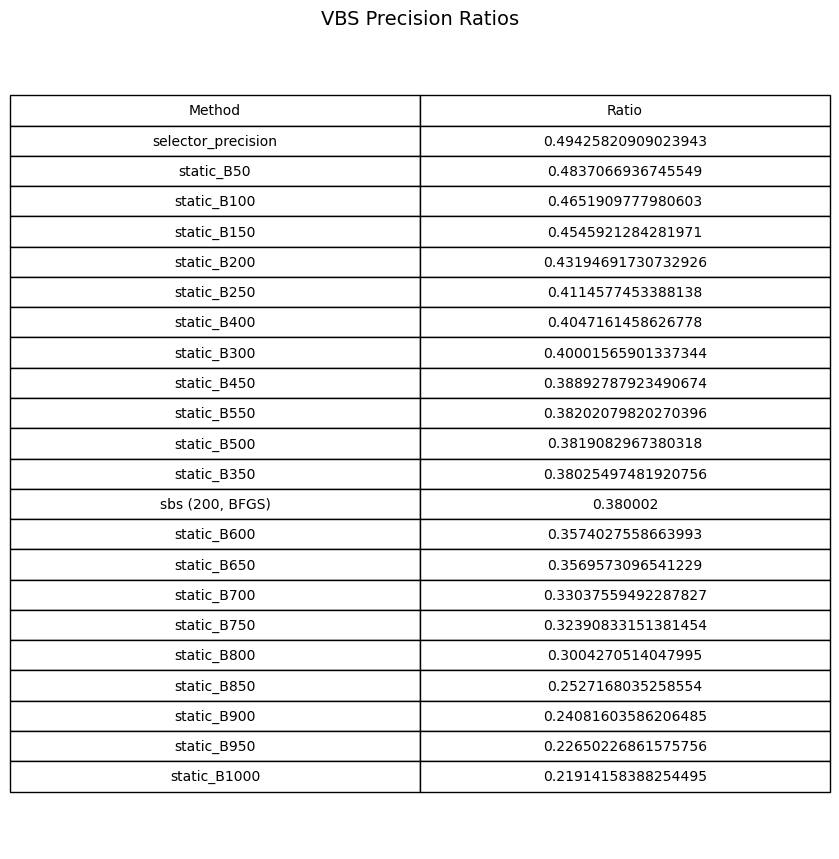
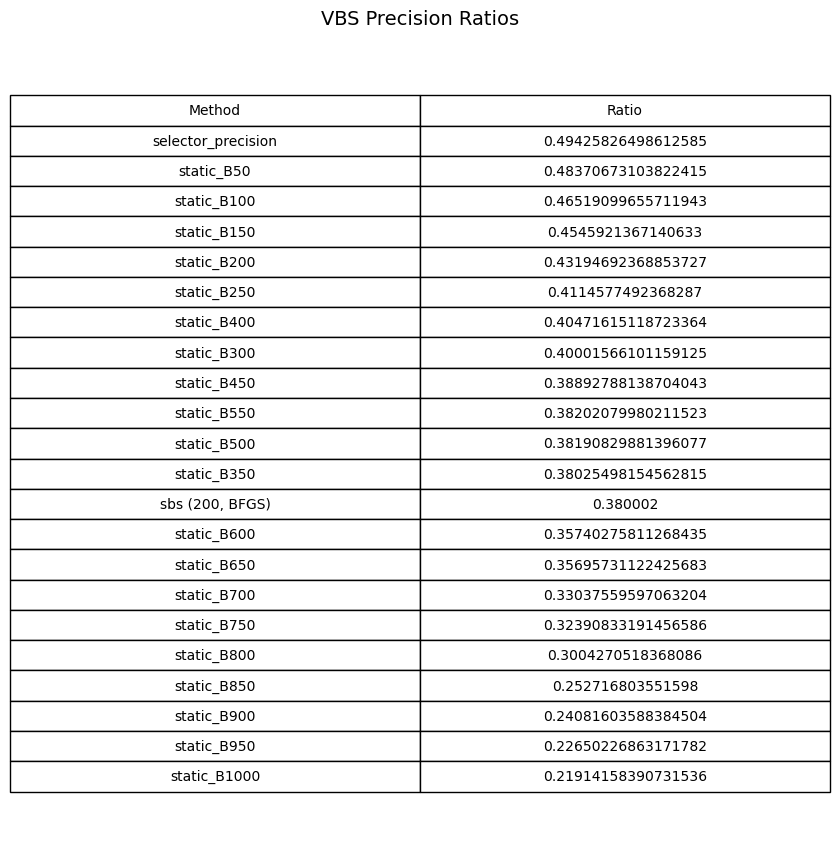
changes

Changed region(s): [[0.6508, 0.1513, 0.8367, 0.5751], [0.6508, 0.6054, 0.8367, 0.908]]

diff --git a/selector/scripts/performance_analysis.py b/selector/scripts/performance_analysis.py
@@ -22,15 +22,11 @@ def compute_vbs_ratios(csv_path, fid = None):
     vbs_selector_ratios = {col: 0.0 for col in eval_cols}
 
     for _, row in df.iterrows():
-        vbs_p = row["vbs_precision"]
-        vbs_s = row["vbs_selector"]
+        vbs_p = row["vbs_precision"] + eps
+        vbs_s = row["vbs_selector"] + eps
 
         for col in eval_cols:
-            denom = row[col]
-            if denom == 0:
-                denom = eps  # Avoid division by zero
-                vbs_p = eps 
-                vbs_s = eps  # Avoid division by zero for VBS values
+            denom = row[col] + eps # Avoid division by zero for VBS values
             # vbs_precision / col
             vbs_precision_ratios[col] += vbs_p / denom
 
@@ -105,7 +101,7 @@ def find_sbs(path):
     df = df.merge(vbs_df, on=["fid", "iid", "rep"], how="left")
 
     # Step 3: Compute relative score (vbs / precision)
-    df["relative_score"] = df["vbs"].replace(0, eps) / df["precision"].replace(0, eps)
+    df["relative_score"] = ( df["vbs"] + eps ) / ( df["precision"] + eps )
     # df.to_csv("test.csv", index=False)  # Save intermediate results for debugging
     # Step 4: Average relative score per (budget, algorithm)
     score_table = (
@@ -137,12 +133,12 @@ def display_vbs_tables(csv_path, fid = None):
     results = compute_vbs_ratios(csv_path, fid)
     if fid is None:
         save_tables(results["vbs_precision_ratios"], "VBS Precision Ratios", "../results/vbs_precision_ratios.png")
-        save_tables(results["vbs_selector_ratios"], "VBS Selector Ratios", "../results/vbs_selector_ratios.png")
+        # save_tables(results["vbs_selector_ratios"], "VBS Selector Ratios", "../results/vbs_selector_ratios.png")
     else:
         os.makedirs(f"../results/vbs_precision_ratios_fid", exist_ok=True)
-        os.makedirs(f"../results/vbs_selector_ratios_fid", exist_ok=True)
+        # os.makedirs(f"../results/vbs_selector_ratios_fid", exist_ok=True)
         save_tables(results["vbs_precision_ratios"], f"VBS Precision Ratios (fid={fid})", f"../results/vbs_precision_ratios_fid/vbs_precision_ratios_fid_{fid}.png")
-        save_tables(results["vbs_selector_ratios"], f"VBS Selector Ratios (fid={fid})", f"../results/vbs_selector_ratios_fid/vbs_selector_ratios_fid_{fid}.png")
+        # save_tables(results["vbs_selector_ratios"], f"VBS Selector Ratios (fid={fid})", f"../results/vbs_selector_ratios_fid/vbs_selector_ratios_fid_{fid}.png")
 
 def plot_selector_budget_counts(csv_path, output_png="selector_budget_counts.png"):
     df = pd.read_csv(csv_path)
@@ -258,14 +254,18 @@ def plot_switching_point_comparison(selector_csv, precision_csv, output_dir="../
 # Example usage
 if __name__ == "__main__":
     precision_path = "../data/A2_precisions_test.csv"  # Replace with your actual file path
-    result_path = "../data/result_csvs/selector_results_with_vbs_selector.csv"
-    for fid in range(1, 25):
-        display_vbs_tables(result_path, fid)
-    # print(compute_budget_specific_selector_ratio(result_path, precision_path, budget=150))
-    # display_vbs_tables(result_path)
-    # res = find_sbs(precision_path)
-    # for i, row in res.iterrows():
-    #     print(f"{row['budget']:>3} | {row['algorithm']:<20} | {row['relative_score']:.6f}")
-    # sbs = (50, "Non-elitist", 0.244517)
-    plot_switching_point_comparison(result_path, precision_path, output_dir="../results/switching_point_plots")
-    # plot_selector_budget_counts(result_path, output_png="../results/selector_budget_counts.png")
+    result_path = "../results/result_csvs/selector_results_with_vbs_selector.csv"
+    res = find_sbs(precision_path)
+    for i, row in res.iterrows():
+        print(f"{row['budget']:>3} | {row['algorithm']:<20} | {row['relative_score']:.6f}")
+    display_vbs_tables(result_path)
+    # for fid in range(1, 25):
+    #     display_vbs_tables(result_path, fid)
+    # # print(compute_budget_specific_selector_ratio(result_path, precision_path, budget=150))
+    # # display_vbs_tables(result_path)
+    # # res = find_sbs(precision_path)
+    # # for i, row in res.iterrows():
+    # #     print(f"{row['budget']:>3} | {row['algorithm']:<20} | {row['relative_score']:.6f}")
+    # # sbs = (50, "Non-elitist", 0.244517)
+    # plot_switching_point_comparison(result_path, precision_path, output_dir="../results/switching_point_plots")
+    # # plot_selector_budget_counts(result_path, output_png="../results/selector_budget_counts.png")

diff --git a/data_collection/scripts/collect_data.py b/data_collection/scripts/collect_data.py
@@ -198,7 +198,7 @@ def collect_A1_data(budget_factor, dim = 5):
 
     logger = ioh.logger.Analyzer(
         triggers=[trigger],
-        folder_name=f'../data/A1_test/data/A1_B{budget_factor*dim}_{dim}D',
+        folder_name=f'../data/A1_newReps/A1_B{budget_factor*dim}_{dim}D',
         algorithm_name='ModCMA_A1',
         store_positions=True
     )
@@ -206,11 +206,11 @@ def collect_A1_data(budget_factor, dim = 5):
     logger.watch(tracked_parameters, [x.name for x in fields(tracked_parameters)])
     
     for fid in range(1,25):
-        for iid in range(6,8):
+        for iid in range(6):
             problem = ioh.get_problem(fid, iid, dim, ProblemClass.BBOB)
             problem.attach_logger(logger)
             
-            for rep in range(20):
+            for rep in range(20, 101):
                 tracked_parameters.rep = rep
                 tracked_parameters.iid = iid
                 print(f"Running fundction {fid} instance {iid} repetition {rep} with A1, budget {budget_factor*dim}")
@@ -235,7 +235,7 @@ def collect_A2(budget_factor, dim, A2, algname):
     
     logger = ioh.logger.Analyzer(
         triggers=[trigger],
-        folder_name=f'../data/A2_test_data/A2_{algname}_B{budget_factor*dim}_{dim}D',
+        folder_name=f'../data/A2_newReps/A2_{algname}_B{budget_factor*dim}_{dim}D',
         algorithm_name=algname,
         store_positions=False,
     )
@@ -243,11 +243,11 @@ def collect_A2(budget_factor, dim, A2, algname):
     logger.watch(tracked_parameters, [x.name for x in fields(tracked_parameters)])
     
     for fid in range(1,25):
-        for iid in range(6,8):
+        for iid in range(6):
             problem = ioh.get_problem(fid, iid, dim, ProblemClass.BBOB)
             problem.attach_logger(logger)
             
-            for rep in range(20):
+            for rep in range(20, 101):
                 tracked_parameters.rep = rep
                 tracked_parameters.iid = iid
                 print(f"Running fundction {fid} instance {iid} repetition {rep} with A2 {algname}, budget {budget_factor*dim}")
